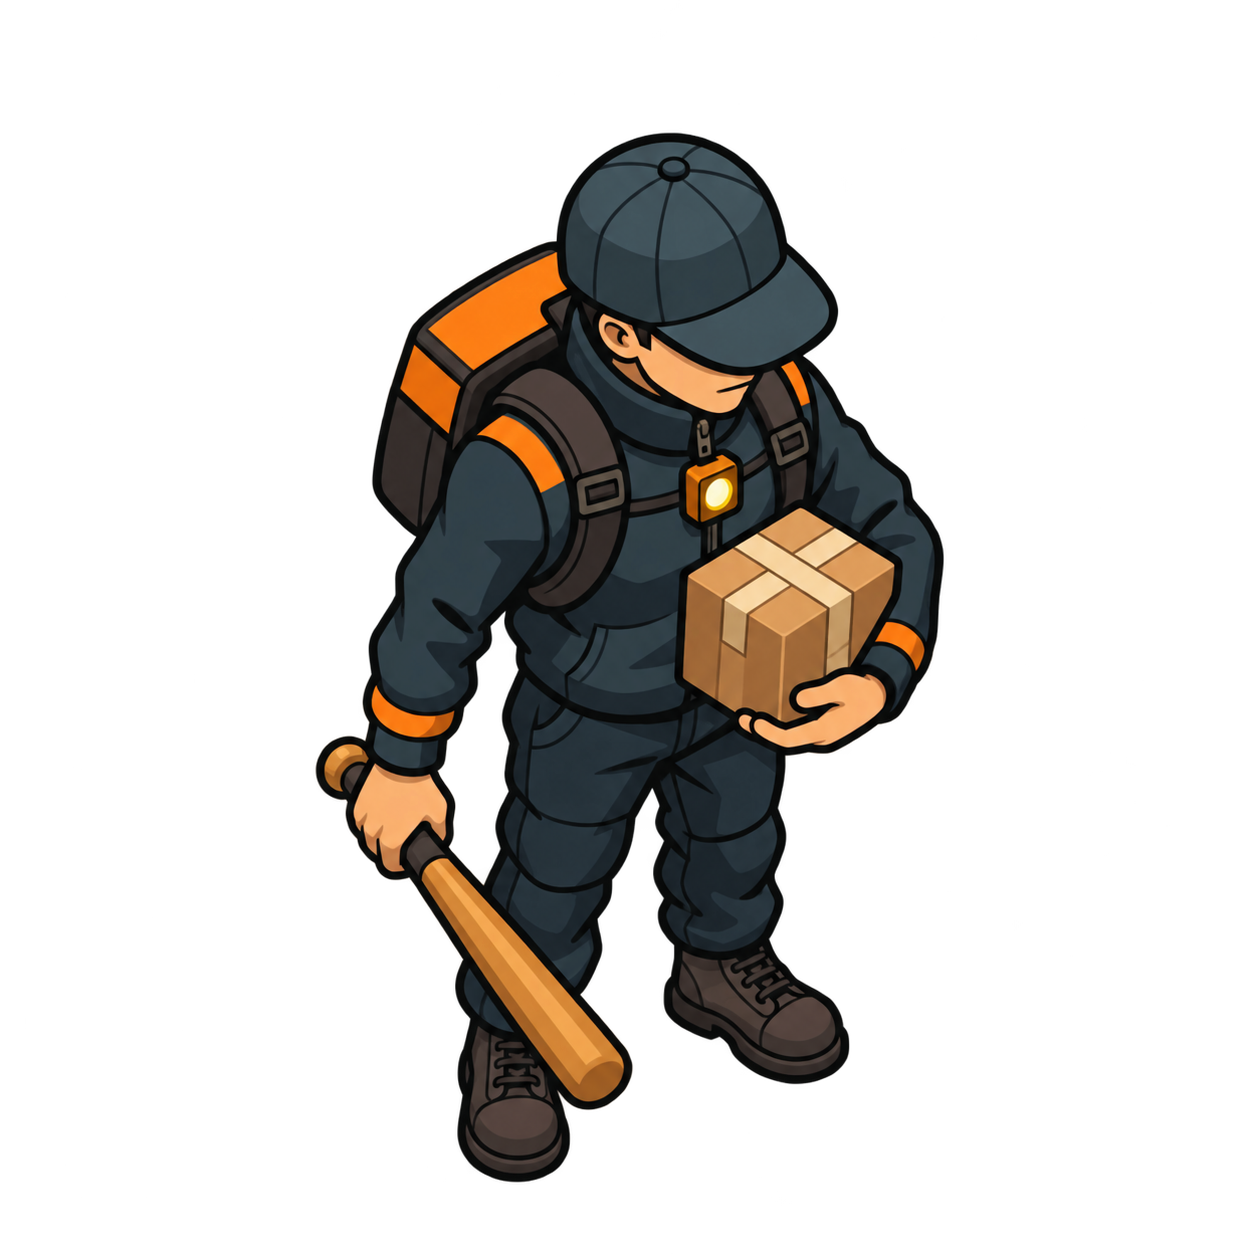
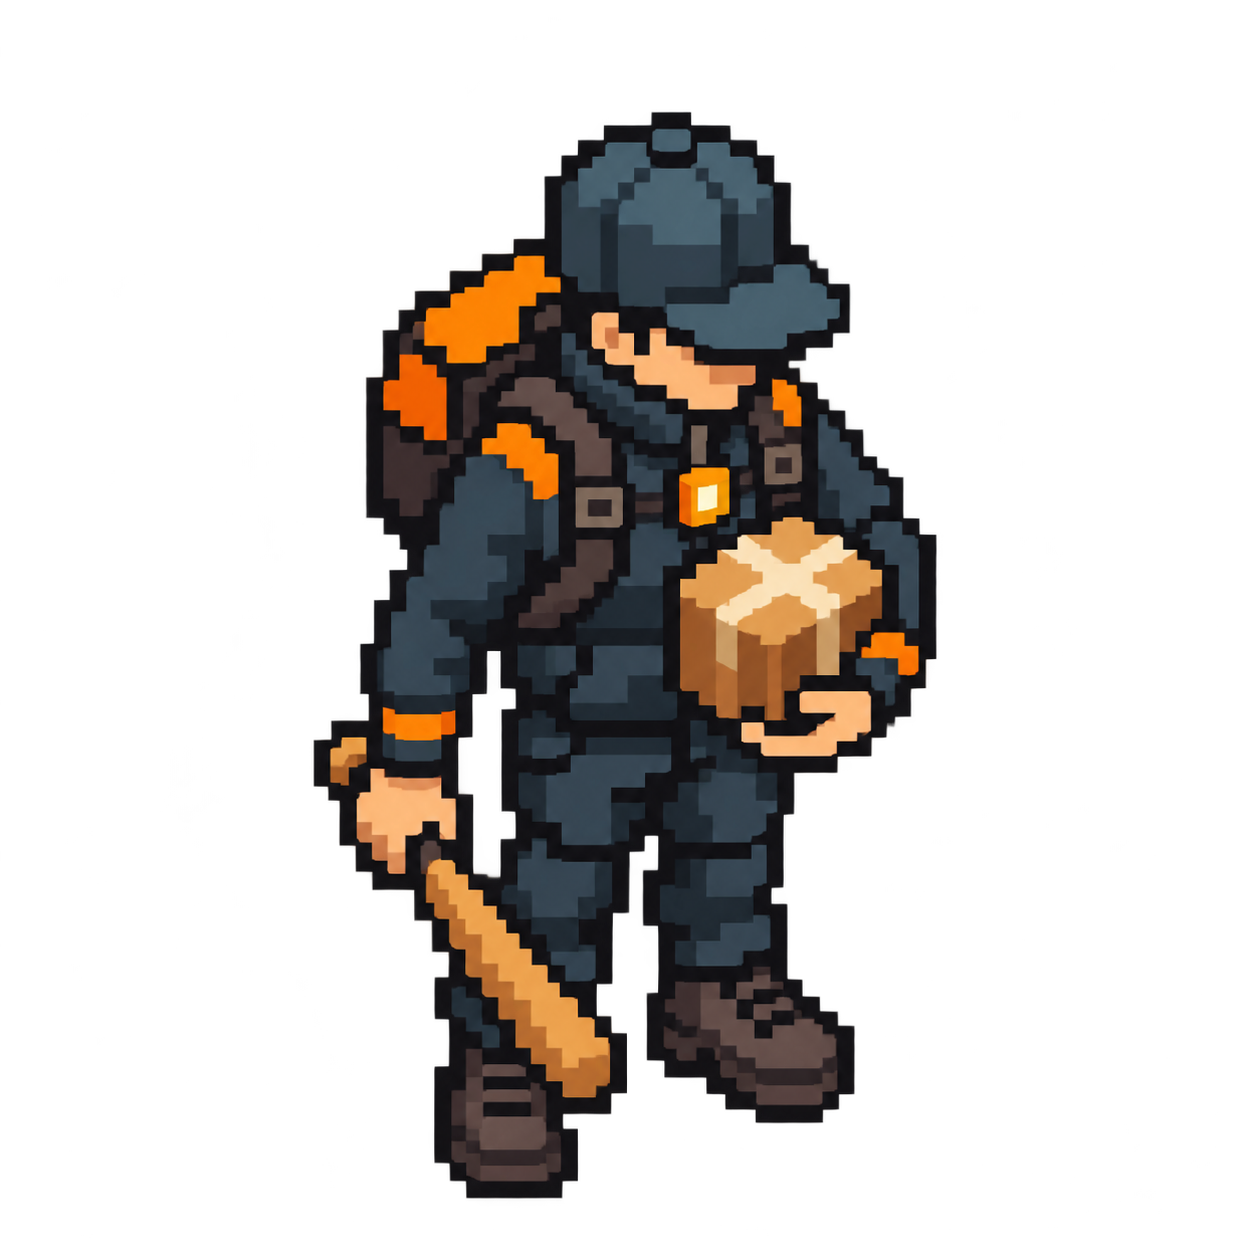
feat: 1주차 R1-A 도트풍 캐릭터 적용

Changed region(s): [[0.2488, 0.0933, 0.7775, 0.9641]]

diff --git a/game/tests/test_visual_pixel_r1a.py b/game/tests/test_visual_pixel_r1a.py
@@ -1,0 +1,53 @@
+"""Read actual SDL texture sampling using dummy video/audio only."""
+import ctypes
+import os
+from pathlib import Path
+import sys
+import unittest
+from unittest.mock import patch
+
+
+sys.path.insert(0, str(Path(__file__).resolve().parents[1]))
+
+import pico2d.pico2d as p
+from player_visual import PlayerVisual
+
+
+class PixelSamplingTests(unittest.TestCase):
+    def test_loaded_player_texture_explicitly_uses_nearest_sampling(self):
+        sprite = None
+        canvas_open = False
+        hint = p.SDL_HINT_RENDER_SCALE_QUALITY
+        previous_hint = p.SDL_GetHint(hint)
+        with patch.dict(os.environ, SDL_VIDEODRIVER="dummy", SDL_AUDIODRIVER="dummy"):
+            try:
+                if p.SDL_WasInit(p.SDL_INIT_VIDEO):
+                    self.assertEqual(p.SDL_GetCurrentVideoDriver(), b"dummy")
+                canvas_open = True
+                p.open_canvas(1280, 720, sync=False)
+                if not p.renderer:
+                    p.renderer = p.SDL_CreateRenderer(
+                        p.window, -1, p.SDL_RENDERER_SOFTWARE)
+                self.assertTrue(p.renderer, p.SDL_GetError())
+                self.assertEqual(p.SDL_GetCurrentVideoDriver(), b"dummy")
+                # A linear default prevents passing merely because SDL defaults to nearest.
+                self.assertTrue(p.SDL_SetHint(hint, b"1"))
+                sprite = PlayerVisual()
+                sampling = ctypes.c_int(-1)
+                result = p.SDL_GetTextureScaleMode(
+                    sprite.image.texture, ctypes.byref(sampling))
+                self.assertEqual(result, 0, p.SDL_GetError())
+                self.assertEqual(sampling.value, p.SDL_ScaleModeNearest)
+            finally:
+                if sprite is not None:
+                    sprite.close()
+                if canvas_open:
+                    p.close_canvas()
+                if previous_hint is None:
+                    p.SDL_ResetHint(hint)
+                else:
+                    p.SDL_SetHint(hint, previous_hint)
+
+
+if __name__ == "__main__":
+    unittest.main()

diff --git a/game/tests/test_visual_r1a.py b/game/tests/test_visual_r1a.py
@@ -168,17 +168,17 @@ class SpriteGeometryTests(unittest.TestCase):
             640.0, 198.0, clip, self.metadata["foot_pivot_topleft"],
             self.metadata["display_height"],
         )
-        self.assertEqual(self.metadata["display_height"], 120)
-        self.assertAlmostEqual(rectangle[3], 120.0, places=9)
-        self.assertAlmostEqual(rectangle[2], 72.0, places=9)
+        self.assertEqual(self.metadata["display_height"], 128)
+        self.assertEqual(self.metadata["sampling"], "nearest")
+        self.assertAlmostEqual(rectangle[3], 128.0, places=9)
         self.assertAlmostEqual(rectangle[2] / rectangle[3], clip[2] / clip[3], places=9)
 
     def test_ground_translation_moves_sprite_without_changing_size_or_metadata(self):
         clip = self.metadata["clip_topleft"].copy()
         pivot = self.metadata["foot_pivot_topleft"].copy()
         arguments_before = (clip.copy(), pivot.copy())
-        first = sprite_rect(640.0, 198.0, clip, pivot, 120)
-        second = sprite_rect(517.75, 289.5, clip, pivot, 120)
+        first = sprite_rect(640.0, 198.0, clip, pivot, 128)
+        second = sprite_rect(517.75, 289.5, clip, pivot, 128)
         self.assertAlmostEqual(second[0] - first[0], -122.25, places=9)
         self.assertAlmostEqual(second[1] - first[1], 91.5, places=9)
         self.assertEqual(first[2:], second[2:])

diff --git a/game/player_visual.py b/game/player_visual.py
@@ -30,6 +30,9 @@ class PlayerVisual:
         if [self.image.w, self.image.h] != self.metadata["canvas_size"]:
             self.close()
             raise ValueError(f"R1-A sprite canvas differs from metadata: {path}")
+        if p.SDL_SetTextureScaleMode(self.image.texture, p.SDL_ScaleModeNearest) != 0:
+            self.close()
+            raise RuntimeError(f"R1-A nearest sampling failed: {p.SDL_GetError()!r}")
 
     def draw(self, foot_x, foot_y):
         clip = self.metadata["clip_topleft"]

diff --git a/plans/handoffs/r1a-ui.md b/plans/handoffs/r1a-ui.md
@@ -1,5 +1,56 @@
 # R1-A UI·에셋 인계
 
+## 현재 인계 — 1주차 R1-A 도트풍 수정
+
+기준일: 2026-11-04. 사용자 도트풍 요청에 따른 R1-A 내 아트 수정이며 R1-B는 미착수다. 자체 확인 완료 후 편집을 정지하고 지휘의 actual Windows 재검수·주차 표기 커밋·사용자 2차 확인을 기다린다.
+
+### 이번 변경
+
+- game/assets/player/r1a-courier-20261104.png: 내장 imagegen 편집 1회 결과로 canonical 원본 교체. 이전 원본은 Git fa14b88에 있으며 미사용 복사본을 game/assets에 추가하지 않았다.
+- game/assets/player/r1a-courier-20261104.prompt.txt: 원생성 입력과 이번 정확한 편집 입력을 별도 제목으로 구분해 모두 보존. 두 입력의 보존 여부를 직접 비교했다.
+- game/assets/player/r1a-courier-20261104.json: 새 SHA256·실제 canvas·runtime clip·발점·128px 표시 높이·nearest·출처·한계 기록.
+- game/player_visual.py: 해당 이미지 텍스처에 SDL_ScaleModeNearest를 명시하고 실패 반환값을 검사한다.
+- game/tests/test_visual_r1a.py: 현재 표시 높이 128px와 종횡비 계약에 맞춰 이전 120/72 고정 기대값 정리.
+- game/tests/test_visual_pixel_r1a.py: SDL 기본 필터 힌트를 linear로 둔 상태에서 실제 로드 텍스처가 Nearest인지 확인하는 dummy 검사 1개.
+- plans/handoffs/r1a-ui.md: 본 인계 기록.
+
+main.py·core.py·다른 문서·PPT·Git은 수정하지 않았다. 원본 PNG의 프로그램 후처리·재그리기·리사이즈를 하지 않았으며 게임 표시 때의 clip·배율·샘플링만 사용한다.
+
+### 원본과 표시 규격
+
+- 실제 생성 원본: **1254×1254, 8bit RGBA**, 알파 0–255. 네이티브 64px 원본이 아니다.
+- 스타일: 64px 높이 정도의 정보 밀도를 목표로 한 큰 도트 클러스터·계단 윤곽. 블록 내부 미세 색 변화는 남아 있어 엄밀한 64px 격자·정확한 24~32색 팔레트를 보증하지 않는다.
+- PNG 좌상단 기준 alpha>16 bbox: (313,111)–(936,1198), 624×1088px.
+- runtime clip: (311,109,628,1092), 2px 여백. 원본 경계 밖 저알파 잔여는 clip으로 제외한다. 원본 알파를 편집한 것은 아니다.
+- 발점: PNG 좌상단 기준 (652,1159). 가까운 발 (514,1196), 먼 발 (789,1121)의 접지 후보 중간점을 반올림한 육안 메타다.
+- 표시 높이 **128px**, 표시 폭 약 73.61px, 종횡비 유지·nearest 샘플링. 전체 회전·좌우 반전은 하지 않는다.
+- SHA256: A928D8DF6FDAFAD919AF79E59B4AD805AFBBF07B2CC2A4E11C98C8BC23B83539. canonical PNG와 메타 해시 일치 확인.
+- 높은 고정 사선·왼손 몸 앞 택배·오른손 방망이·가슴등·두 팔/두 다리·발 접지 형태를 원본과 실제 축소 렌더에서 확인했다.
+
+### 자체 확인
+
+```powershell
+.\.venv\Scripts\python.exe -B -m unittest discover -s game/tests -q
+```
+
+**38/38 통과**. 기존 37개 회귀에 실제 Nearest 샘플링 확인 1개를 추가했다. 입력·좌표·충돌·포커스·제목·종료 경로 회귀가 유지된다.
+
+SDL_VIDEODRIVER=dummy, SDL_AUDIODRIVER=dummy, SDL_RENDER_DRIVER=software 환경에서 main.run(smoke_test=True)를 실행했다. capture 저장 경로만 pixel-art 하위 폴더로 바꾼 관찰 훅을 사용했으며 실제 SDL back buffer를 저장했다.
+
+- output/review/R1-A/pixel-art/ui-initial.png — 도트풍 한 방향 샘플·발점·조준 표식
+- output/review/R1-A/pixel-art/ui-wall-behind.png — 벽 뒤 몸 가림
+- output/review/R1-A/pixel-art/ui-wall-front.png — 벽 앞 표시
+
+세 PNG를 직접 검토했다. 이는 dummy 렌더 결과이며 이번 수정에서 네이티브 창·GUI·실제 입력 도구를 사용하지 않았다. 이전 그림체의 Windows 검수 결과를 이번 도트풍 수정본의 시각 검수로 대체하지 않는다.
+
+### 지휘·사용자 확인 필요
+
+지휘가 실제 Windows에서 128px 도트풍 크기·발점·벽 앞뒤 가림을 다시 확인한다. 사용자는 도트 밀도·얼굴/장비 가독성·발 모양·택배 앞 배치가 원하는 방향인지 확인한다. 물리 키보드 조작은 기존 미확인 항목을 유지한다.
+
+현재 프로젝트 1주차이며 커밋·주차 기록은 지휘만 진행한다. 추가 이미지 생성·방향·보행·맵 아트·전투·R1-B는 진행하지 않는다.
+
+## 이전 R1-A 구현·검수 이력 — 도트풍 교체 전
+
 기준일: 2026-11-04
 상태: 2026-11-04 사용자 재개 후 지휘 확정 범위 UI-02/03만 수행했다. UI는 네이티브 창·화면·입력 도구를 사용하지 않고 dummy/모의 검사만 수행했다. core의 이동 알고리즘·API·에셋은 유지하고, 앱의 이벤트 폴링과 포커스 상실 시 누름 상태 초기화만 수정했다. 지휘 native 재검수 요청 후 정지하며 R1-B는 미착수다.
 
